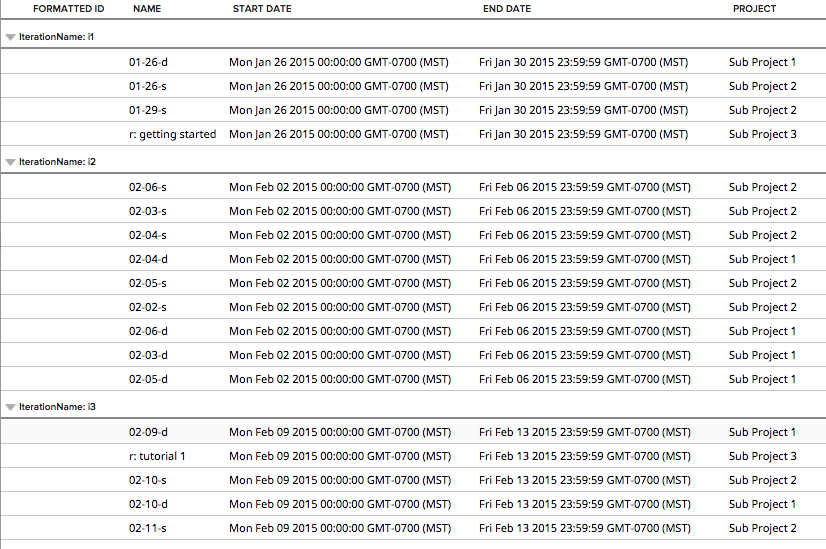
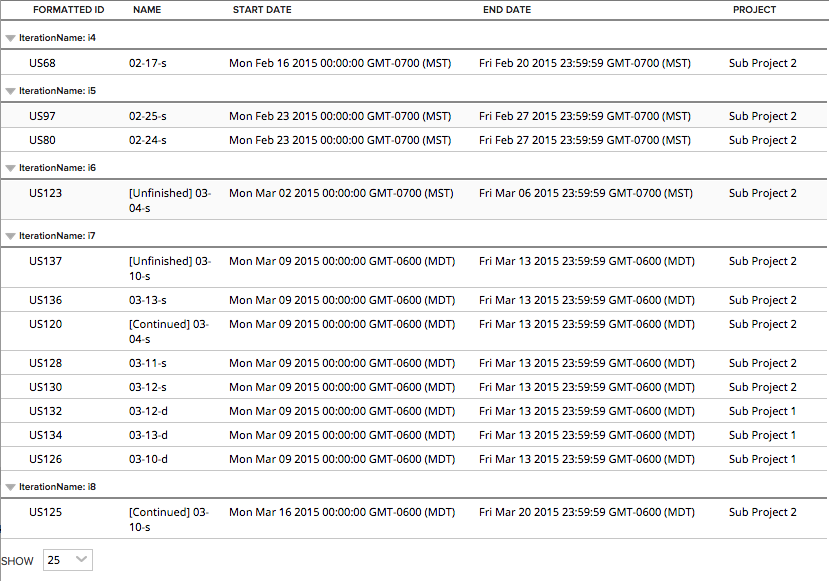
fid issue

diff --git a/deploy/App-external.html b/deploy/App-external.html
@@ -7,7 +7,7 @@
 
     <script type="text/javascript">
         Rally.onReady(function () {
-                Ext.define("CustomApp",{extend:"Rally.app.App",componentCls:"app",launch:function(){var millisecondsInDay=864e5,lookback=30,currentDate=new Date,startDate=new Date(currentDate-millisecondsInDay*lookback),startDateUTC=startDate.toISOString(),stories=Ext.create("Rally.data.wsapi.Store",{model:"UserStory",fetch:["Iteration","FormattedID","Name","Project"],filters:[{property:"LastUpdateDate",operator:">",value:startDateUTC},{property:"Iteration",operator:"!=",value:null}]});stories.load().then({success:this._onStoriesLoaded,scope:this}).then({success:function(results){this._makeGrid(results)},failure:function(error){console.log("oh noes!")},scope:this})},_onStoriesLoaded:function(stories){var promises=[],storyObj={};return Rally.data.ModelFactory.getModel({type:"Iteration"}).then({success:function(model){return Deft.Promise.all(_.map(stories,function(story){var ref=story.get("Iteration")._ref,oid=Rally.util.Ref.getOidFromRef(ref);return model.load(oid,{fetch:["Name","StartDate","EndDate"]}).then({success:function(iteration){return{FormattedID:story.get("FormattedID"),Name:story.get("Name"),Project:story.get("Project")._refObjectName,IterationName:iteration.get("Name"),StartDate:iteration.get("StartDate"),EndDate:iteration.get("EndDate")}},scope:this})}))},scope:this})},_makeGrid:function(results){var store=Ext.create("Rally.data.custom.Store",{data:results,groupField:"IterationName",pageSize:1e3}),grid=Ext.create("Rally.ui.grid.Grid",{itemId:"storyGrid",store:store,features:[{ftype:"grouping"}],columnCfgs:[{text:"Formatted ID",dataIndex:"FormattedID",xtype:"templatecolumn",tpl:Ext.create("Rally.ui.renderer.template.FormattedIDTemplate")},{text:"Name",dataIndex:"Name"},{text:"Start Date",dataIndex:"StartDate",width:250},{text:"End Date",dataIndex:"EndDate",width:250},{text:"Project",dataIndex:"Project"}]});this.add(grid)}});
+                Ext.define("CustomApp",{extend:"Rally.app.App",componentCls:"app",launch:function(){var millisecondsInDay=864e5,lookback=30,currentDate=new Date,startDate=new Date(currentDate-millisecondsInDay*lookback),startDateUTC=startDate.toISOString(),stories=Ext.create("Rally.data.wsapi.Store",{model:"UserStory",fetch:["Iteration","FormattedID","Name","Project"],filters:[{property:"LastUpdateDate",operator:">",value:startDateUTC},{property:"Iteration",operator:"!=",value:null}]});stories.load().then({success:this._onStoriesLoaded,scope:this}).then({success:function(results){this._makeGrid(results)},failure:function(error){console.log("oh noes!")},scope:this})},_onStoriesLoaded:function(stories){var promises=[],storyObj={};return Rally.data.ModelFactory.getModel({type:"Iteration"}).then({success:function(model){return Deft.Promise.all(_.map(stories,function(story){var ref=story.get("Iteration")._ref,oid=Rally.util.Ref.getOidFromRef(ref);return model.load(oid,{fetch:["Name","StartDate","EndDate"]}).then({success:function(iteration){return{FormattedID:story.get("FormattedID"),Name:story.get("Name"),Project:story.get("Project")._refObjectName,IterationName:iteration.get("Name"),StartDate:iteration.get("StartDate"),EndDate:iteration.get("EndDate")}},scope:this})}))},scope:this})},_makeGrid:function(results){var store=Ext.create("Rally.data.custom.Store",{data:results,groupField:"IterationName",pageSize:1e3}),grid=Ext.create("Rally.ui.grid.Grid",{itemId:"storyGrid",store:store,features:[{ftype:"grouping"}],columnCfgs:[{text:"Formatted ID",dataIndex:"FormattedID"},{text:"Name",dataIndex:"Name"},{text:"Start Date",dataIndex:"StartDate",width:250},{text:"End Date",dataIndex:"EndDate",width:250},{text:"Project",dataIndex:"Project"}]});this.add(grid)}});
 
             Rally.launchApp('CustomApp', {
                 name:"Scheduled Stories updated in last 60 days",

diff --git a/deploy/App.html b/deploy/App.html
@@ -7,7 +7,7 @@
 
     <script type="text/javascript">
         Rally.onReady(function () {
-                Ext.define("CustomApp",{extend:"Rally.app.App",componentCls:"app",launch:function(){var millisecondsInDay=864e5,lookback=30,currentDate=new Date,startDate=new Date(currentDate-millisecondsInDay*lookback),startDateUTC=startDate.toISOString(),stories=Ext.create("Rally.data.wsapi.Store",{model:"UserStory",fetch:["Iteration","FormattedID","Name","Project"],filters:[{property:"LastUpdateDate",operator:">",value:startDateUTC},{property:"Iteration",operator:"!=",value:null}]});stories.load().then({success:this._onStoriesLoaded,scope:this}).then({success:function(results){this._makeGrid(results)},failure:function(error){console.log("oh noes!")},scope:this})},_onStoriesLoaded:function(stories){var promises=[],storyObj={};return Rally.data.ModelFactory.getModel({type:"Iteration"}).then({success:function(model){return Deft.Promise.all(_.map(stories,function(story){var ref=story.get("Iteration")._ref,oid=Rally.util.Ref.getOidFromRef(ref);return model.load(oid,{fetch:["Name","StartDate","EndDate"]}).then({success:function(iteration){return{FormattedID:story.get("FormattedID"),Name:story.get("Name"),Project:story.get("Project")._refObjectName,IterationName:iteration.get("Name"),StartDate:iteration.get("StartDate"),EndDate:iteration.get("EndDate")}},scope:this})}))},scope:this})},_makeGrid:function(results){var store=Ext.create("Rally.data.custom.Store",{data:results,groupField:"IterationName",pageSize:1e3}),grid=Ext.create("Rally.ui.grid.Grid",{itemId:"storyGrid",store:store,features:[{ftype:"grouping"}],columnCfgs:[{text:"Formatted ID",dataIndex:"FormattedID",xtype:"templatecolumn",tpl:Ext.create("Rally.ui.renderer.template.FormattedIDTemplate")},{text:"Name",dataIndex:"Name"},{text:"Start Date",dataIndex:"StartDate",width:250},{text:"End Date",dataIndex:"EndDate",width:250},{text:"Project",dataIndex:"Project"}]});this.add(grid)}});
+                Ext.define("CustomApp",{extend:"Rally.app.App",componentCls:"app",launch:function(){var millisecondsInDay=864e5,lookback=30,currentDate=new Date,startDate=new Date(currentDate-millisecondsInDay*lookback),startDateUTC=startDate.toISOString(),stories=Ext.create("Rally.data.wsapi.Store",{model:"UserStory",fetch:["Iteration","FormattedID","Name","Project"],filters:[{property:"LastUpdateDate",operator:">",value:startDateUTC},{property:"Iteration",operator:"!=",value:null}]});stories.load().then({success:this._onStoriesLoaded,scope:this}).then({success:function(results){this._makeGrid(results)},failure:function(error){console.log("oh noes!")},scope:this})},_onStoriesLoaded:function(stories){var promises=[],storyObj={};return Rally.data.ModelFactory.getModel({type:"Iteration"}).then({success:function(model){return Deft.Promise.all(_.map(stories,function(story){var ref=story.get("Iteration")._ref,oid=Rally.util.Ref.getOidFromRef(ref);return model.load(oid,{fetch:["Name","StartDate","EndDate"]}).then({success:function(iteration){return{FormattedID:story.get("FormattedID"),Name:story.get("Name"),Project:story.get("Project")._refObjectName,IterationName:iteration.get("Name"),StartDate:iteration.get("StartDate"),EndDate:iteration.get("EndDate")}},scope:this})}))},scope:this})},_makeGrid:function(results){var store=Ext.create("Rally.data.custom.Store",{data:results,groupField:"IterationName",pageSize:1e3}),grid=Ext.create("Rally.ui.grid.Grid",{itemId:"storyGrid",store:store,features:[{ftype:"grouping"}],columnCfgs:[{text:"Formatted ID",dataIndex:"FormattedID"},{text:"Name",dataIndex:"Name"},{text:"Start Date",dataIndex:"StartDate",width:250},{text:"End Date",dataIndex:"EndDate",width:250},{text:"Project",dataIndex:"Project"}]});this.add(grid)}});
 
             Rally.launchApp('CustomApp', {
                 name:"Scheduled Stories updated in last 60 days",

diff --git a/App.js b/App.js
@@ -80,8 +80,8 @@ Ext.define('CustomApp', {
             features: [{ftype:'grouping'}],
             columnCfgs: [
                 {
-                    text: 'Formatted ID', dataIndex: 'FormattedID', xtype: 'templatecolumn',
-                    tpl: Ext.create('Rally.ui.renderer.template.FormattedIDTemplate')
+                    text: 'Formatted ID', dataIndex: 'FormattedID'//, xtype: 'templatecolumn',
+                    //tpl: Ext.create('Rally.ui.renderer.template.FormattedIDTemplate')
                 },
                 {
                     text: 'Name', dataIndex: 'Name'

diff --git a/deploy/App-uncompressed.html b/deploy/App-uncompressed.html
@@ -89,8 +89,8 @@
             features: [{ftype:'grouping'}],
             columnCfgs: [
                 {
-                    text: 'Formatted ID', dataIndex: 'FormattedID', xtype: 'templatecolumn',
-                    tpl: Ext.create('Rally.ui.renderer.template.FormattedIDTemplate')
+                    text: 'Formatted ID', dataIndex: 'FormattedID'//, xtype: 'templatecolumn',
+                    //tpl: Ext.create('Rally.ui.renderer.template.FormattedIDTemplate')
                 },
                 {
                     text: 'Name', dataIndex: 'Name'
